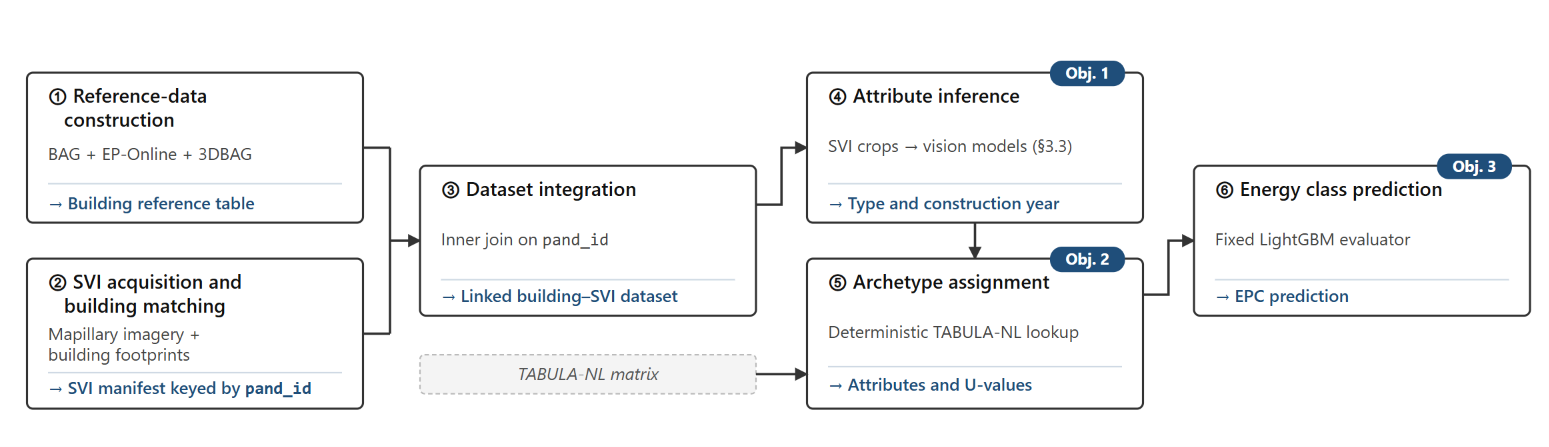
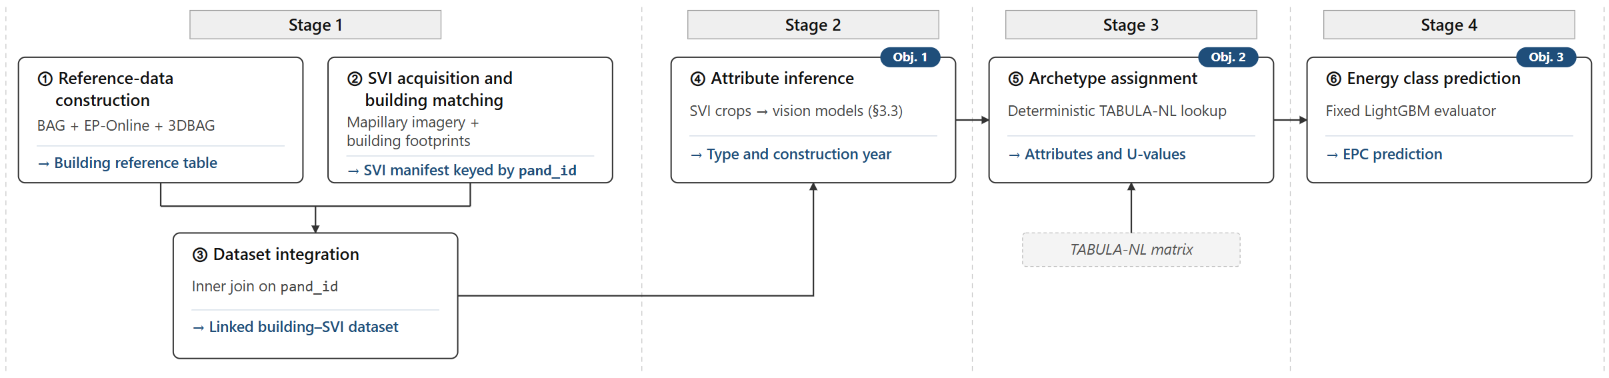
feat(thesis): revise ch3 method text and update workflow/layer figures

diff --git a/thesistemplate-main-v2/content/03_method.tex b/thesistemplate-main-v2/content/03_method.tex
@@ -31,24 +31,28 @@ It also examines direct energy class prediction from imagery, geographic transfe
 \subsection{Semi-Synthetic Dataset: Three-Layer Structure}
 \label{sec:three_layer_structure}
 
-This study defines the semi-synthetic dataset as three layers with explicitly separated provenance.
-First, the reference layer contains administrative records from BAG and EP-Online, reconstructed geometry from 3DBAG, and the reference energy class adopted in this study.
-These fields provide the reference observations required for model training, attribute substitution, and downstream evaluation, but they are not collectively treated as error-free ground truth.
-In particular, the reference energy class remains affected by multiple certificates and within-building class disagreement; its quality is audited separately in \cref{sec:building_level_consistency}.
+This study organises the semi-synthetic dataset into three layers to preserve the provenance of each field.
+The reference layer contains administrative attributes from BAG and EP-Online, reconstructed geometry from 3DBAG, and the registered EP-Online energy class used as the evaluation target.
+These fields support model training, attribute substitution, and downstream evaluation.
+They are not collectively treated as error-free ground truth.
+Multiple certificates and within-building class disagreement introduce uncertainty into the reference energy class.
+The quality of this target is assessed separately in \cref{sec:building_level_consistency}.
 
-Second, the vision-inference layer stores the building-level predictions of building type, construction year, and floor count produced by the three vision paradigms, together with their model provenance.
-Third, the synthetic archetype layer derives the construction period from the estimated year, deterministically maps the pair (type, period) to a TABULA-NL cell, and assigns the cell's four as-built envelope U-values for the wall, roof, floor, and windows.
-These U-values are archetype-level average assumptions for the corresponding building stock subgroup; they are not measurements of the thermal performance of individual buildings and do not introduce new building-specific observations.
+The vision-inference layer stores the building-level predictions of building type, construction year, and floor count produced by the three vision configurations.
+It also records the provenance of each prediction.
+The synthetic archetype layer derives the construction period from the corresponding reference or inferred construction year.
+It then maps building type and construction period to a TABULA-NL cell and assigns the associated as-built U-values for walls, roofs, floors, and windows.
+These U-values represent archetype-level assumptions for the corresponding building stock subgroup.
+They are not measurements of individual buildings and do not introduce new building-specific observations.
 
-Here, semi-synthetic refers to the combination of reference observations, image-derived attributes, and deterministically assigned archetype parameters.
-The energy class target remains an administrative reference obtained from EP-Online rather than a simulated class; only the archetype parameters assigned through the TABULA cell are synthetic.
-This separation makes the provenance of each value traceable and provides the common data foundation for the three research objectives.
+The dataset is described as semi-synthetic because it combines reference observations and attributes inferred from \ac{SVI} with deterministically assigned archetype parameters.
+Only the parameters assigned through the TABULA-NL lookup are synthetic.
+The energy class target remains a registered administrative value rather than a simulated outcome.
+This separation preserves the provenance of each value and provides a common data foundation for the three research objectives.
 
-In the controlled substitution comparison, M1 and M3 use the same eligible buildings, geographic split, feature positions, and fixed model for each downstream task.
-M1 uses the reference type, year, and floor attributes and obtains the TABULA U-values from the corresponding reference (type, period) cell.
-M3 replaces these inputs with the type, year, and floor attributes inferred from \ac{SVI} and retrieves the U-values from the resulting predicted cell.
-Within this protocol, the difference between M3 and M1 therefore measures the consequence of substituting the attribute source rather than the effect of retraining the downstream model.
-M2 predicts energy class directly from imagery and does not pass through this three-layer substitution chain; it is consequently treated as a parallel end-to-end comparator.
+The two TABULA-derived columns in \cref{fig:three_layers} correspond to the M1 reference route and the M3 attribute-mediated route.
+M2 is not shown because it predicts energy class directly from imagery and bypasses the three-layer structure.
+The complete definitions of M0--M3 and their comparison protocol are provided in \cref{sec:strategy_metrics}.
 
 \begin{figure}[htbp]
 	\centering
@@ -63,14 +67,17 @@ M2 predicts energy class directly from imagery and does not pass through this th
 \subsection{Sources}
 \label{sec:data_sources}
 
-The dataset is organised around the BAG building identifier and integrates five public or openly licensed data sources: BAG, 3DBAG, EP-Online, Mapillary, and TABULA-NL.
-Building-level linkage among BAG, EP-Online, and Mapillary forms the core sample.
-3DBAG provides the reconstructed geometry used in subsequent stages \parencite{peters2022,dukai2021}, while TABULA-NL provides a deterministic archetype lookup based on building type and construction period.
-The position of each source within the three-layer data structure is shown in \cref{fig:three_layers}, and the principal data elements and their roles are summarised in \cref{tab:data_sources}.
+The dataset integrates five public or openly licensed data sources: BAG, 3DBAG, EP-Online, Mapillary, and TABULA-NL.
+The BAG building identifier provides the organising key for the building-level records.
+Linking BAG, EP-Online, and Mapillary records at the building level defines the core sample.
+3DBAG provides the reconstructed geometry used in subsequent stages \parencite{peters2022,dukai2021}.
+TABULA-NL provides the deterministic archetype lookup based on building type and construction period.
+\Cref{fig:three_layers} shows the position of each source within the three-layer data structure.
+\Cref{tab:data_sources} summarises the principal data elements and their roles.
 
 \begin{table}[htbp]
 	\centering
-	\caption{Data sources, principal data elements, and roles in the study.}
+	\caption{Data sources, principal data elements, and roles in this study.}
 	\label{tab:data_sources}
 	\small
 	\begin{tblr}{
@@ -84,7 +91,7 @@ The position of each source within the three-layer data structure is shown in \c
 		Source    & Principal data elements                                                                    & Role in this study                                                                                                  \\
 		\midrule
 		BAG       & Building identifier, construction year, two-dimensional footprints, and building status    & Building-level join key, construction year reference, and residential-stock filtering                               \\
-		3DBAG     & \acf{LoD} 2.2 reconstructions of floor count, height, volume, and envelope areas            & Floor count reference, Tier B reconstructed geometry, and area inputs for $H'_{tr}$                                 \\
+		3DBAG     & \acf{LoD} 2.2 reconstructions of floor count, height, volume, and envelope areas            & Floor count reference, reconstructed building geometry, and area inputs for $H'_{tr}$                                \\
 		EP-Online & Energy class, residential building type, and certificate registration date                  & Reference energy class, building type reference, and certificate selection by date                                  \\
 		Mapillary & Crowdsourced street-view imagery and image metadata                                        & Vision-model input, \ac{SVI}-to-building pairing, and image provenance                                              \\
 		TABULA-NL & Six construction periods and four size classes, comprising 24 archetype cells               & Deterministic lookup from building type and period, providing as-built U-values for walls, roofs, floors, and windows \\
@@ -93,15 +100,19 @@ The position of each source within the three-layer data structure is shown in \c
 \end{table}
 
 Mapillary was selected instead of a commercial street-view service because its open licensing supports a reproducible research workflow \parencite{mapillary}.
-However, its image coverage is determined by contributor activity and does not constitute a random sample of the building stock.
+Because Mapillary coverage reflects contributor activity, the available imagery does not represent a random sample of the building stock.
 The resulting dataset may therefore be biased towards image-dense urban centres and particular residential types.
-Representative cropped street-view images are shown in \cref{fig:svi_examples}; the coverage bias is quantified through the sample distributions in \cref{sec:dataset_statistics}, and its implications for the scope of the study are discussed in \cref{sec:limitations}.
+Representative cropped street-view images are shown in \cref{fig:svi_examples}.
+The coverage bias is quantified through the sample distributions in \cref{sec:dataset_statistics}.
+Its implications for the scope of this study are discussed in \cref{sec:limitations}.
 
-The downstream targets are constructed directly from the registered EP-Online energy class, with ratings from A+ through A++++ merged into class A.
-The primary task is an independently trained binary classifier that groups energy classes into A to C and D to G.
-The division corresponds to the upper boundary of class C at 250\,kWh/(m$^2\cdot$year).
-Seven-class A to G prediction is retained as a diagnostic task for examining exact-class classification.
-Both tasks use the registered energy class; continuous energy regression is an auxiliary analysis and does not define the primary targets.
+The downstream classification targets are derived from the registered EP-Online energy class.
+Ratings from A+ through A++++ are merged into class A.
+The primary task is binary classification that distinguishes classes A--C from D--G.
+This split follows the upper boundary of class C at 250\,kWh/(m$^2\cdot$year).
+Seven-class classification from A to G is retained as a diagnostic task for evaluating performance at the original label resolution.
+Both classification tasks use the registered energy class.
+Continuous energy regression is treated as an auxiliary analysis and does not define the primary targets.
 
 \subsection{SVI Acquisition, Data Integration, and Filtering Rules}
 \label{sec:svi_acquisition_filtering}
